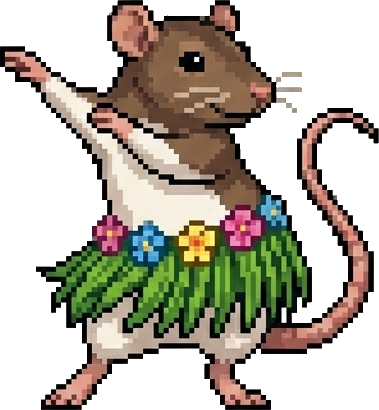
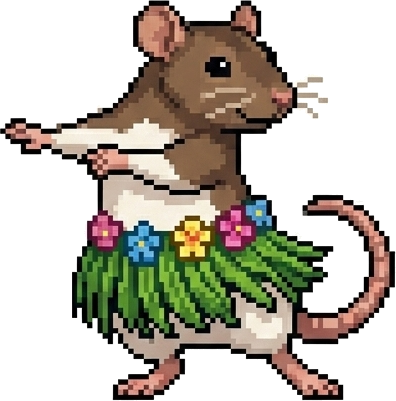
fix: Retain rat hands by strict white background removal and add middle frames

diff --git a/AgentPet.swift b/AgentPet.swift
@@ -62,6 +62,8 @@ class AppDelegate: NSObject, NSApplicationDelegate {
         }
         for i in 0...13 {
             if let frame = loadSprite("hulaCat\(i)") { hulaCatFrames.append(frame) }
+        }
+        for i in 0...15 {
             if let frame = loadSprite("hulaRat\(i)") { hulaRatFrames.append(frame) }
         }
         
